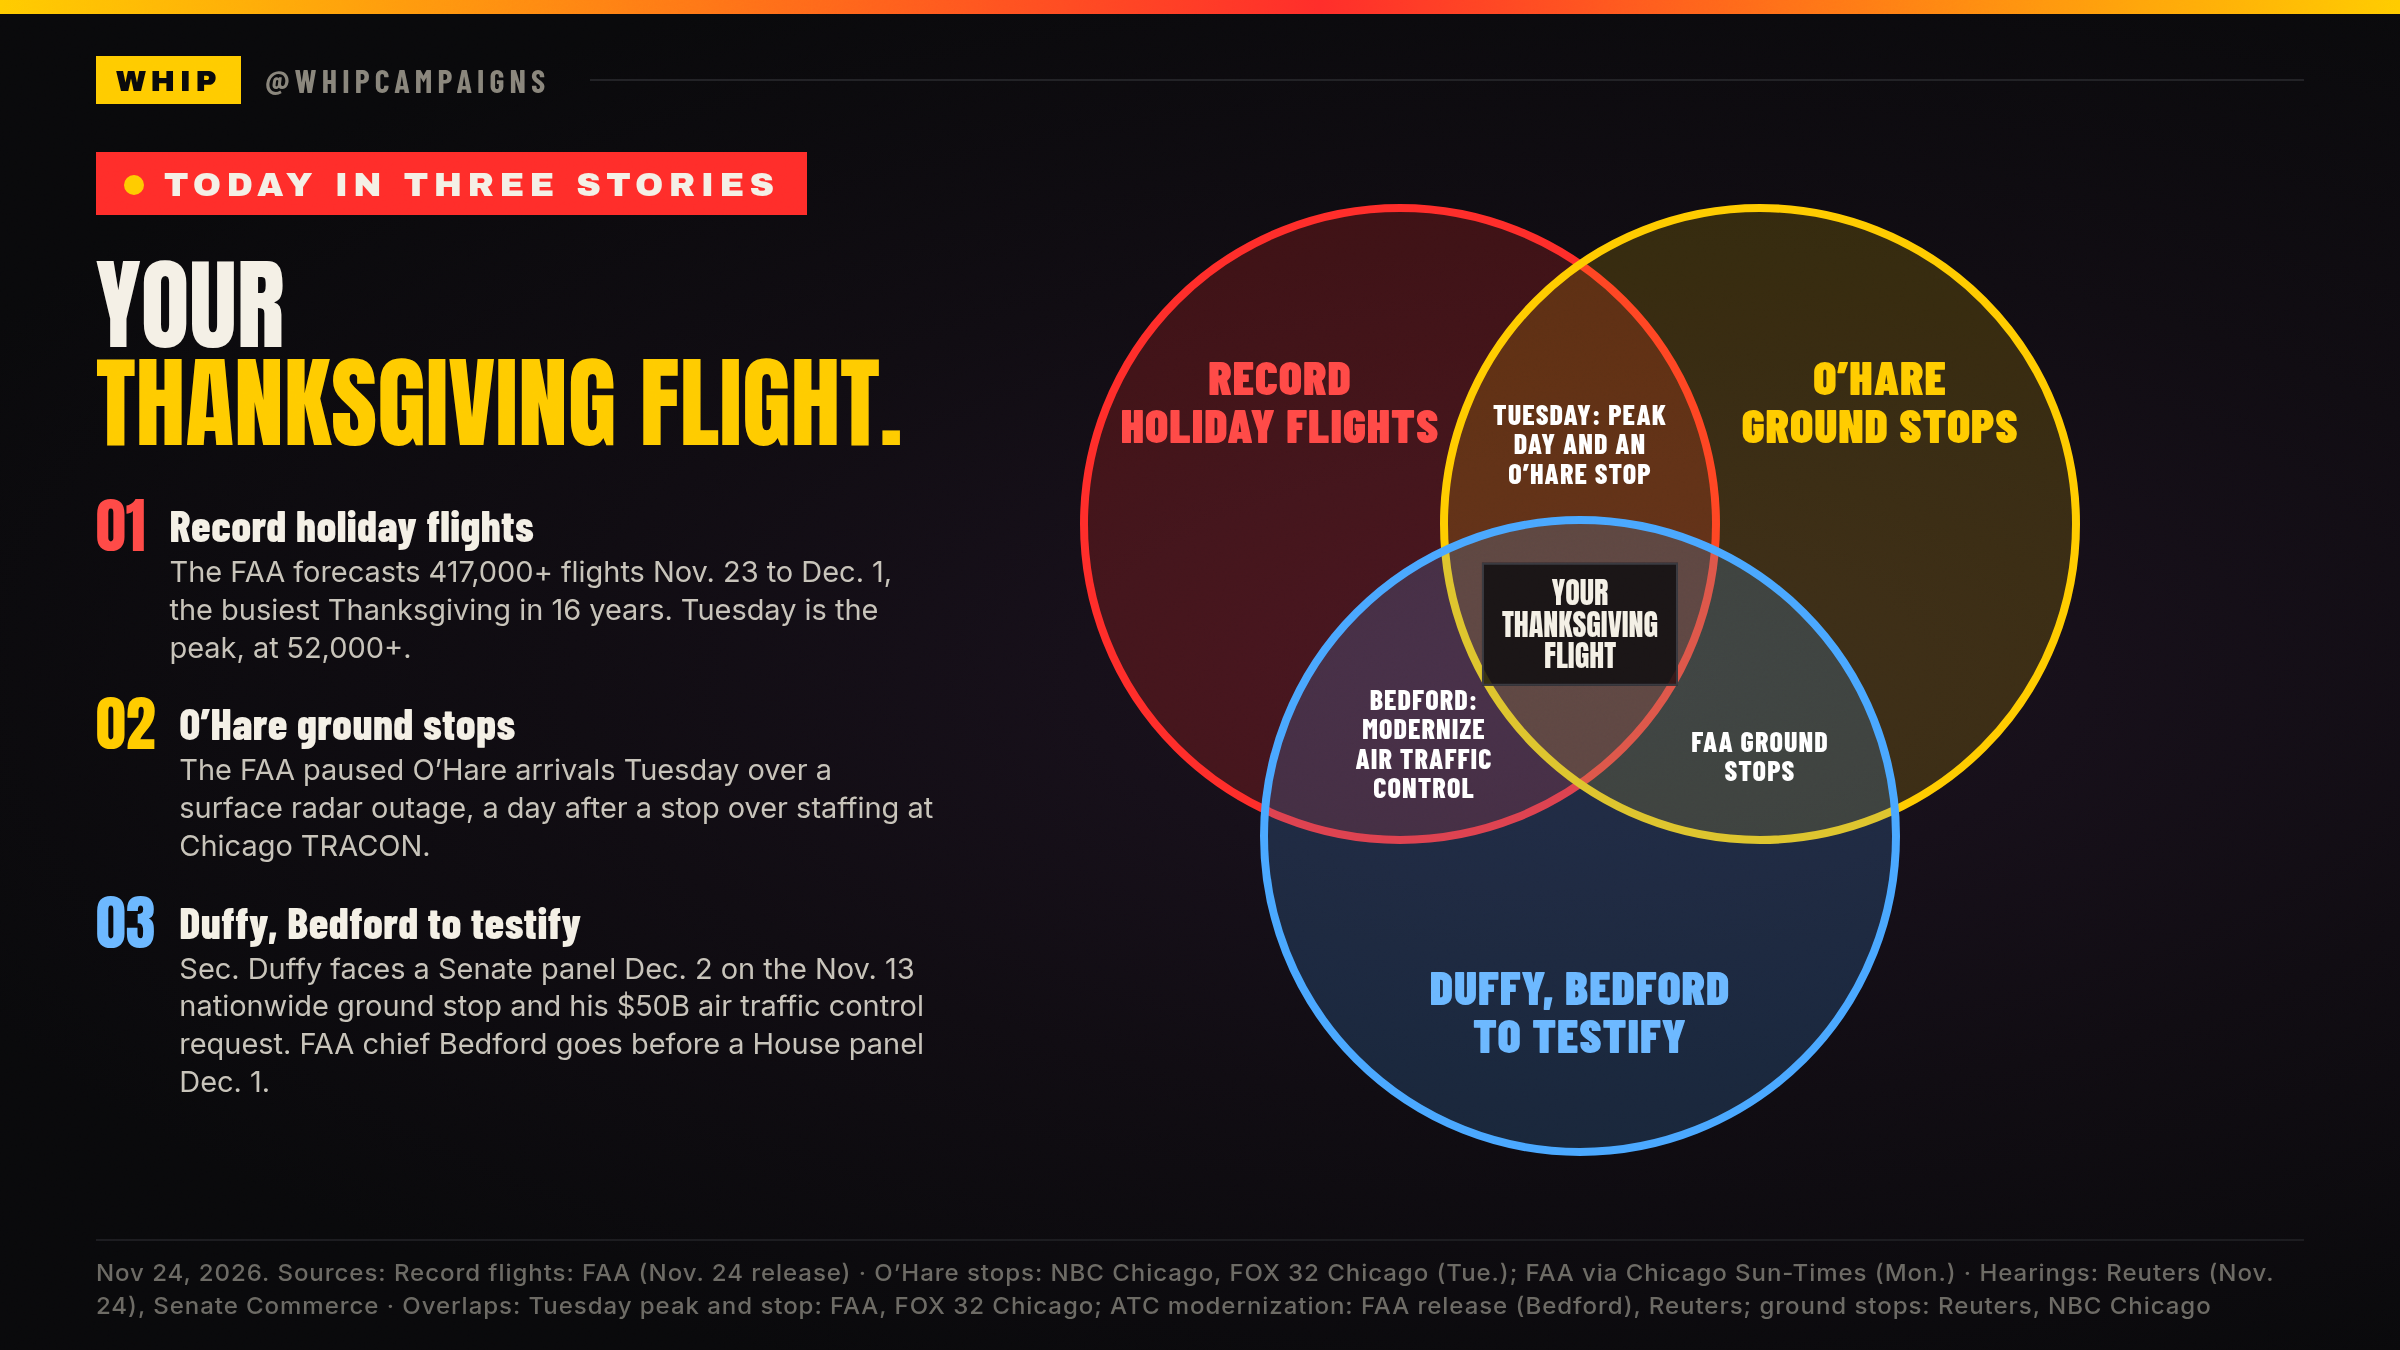
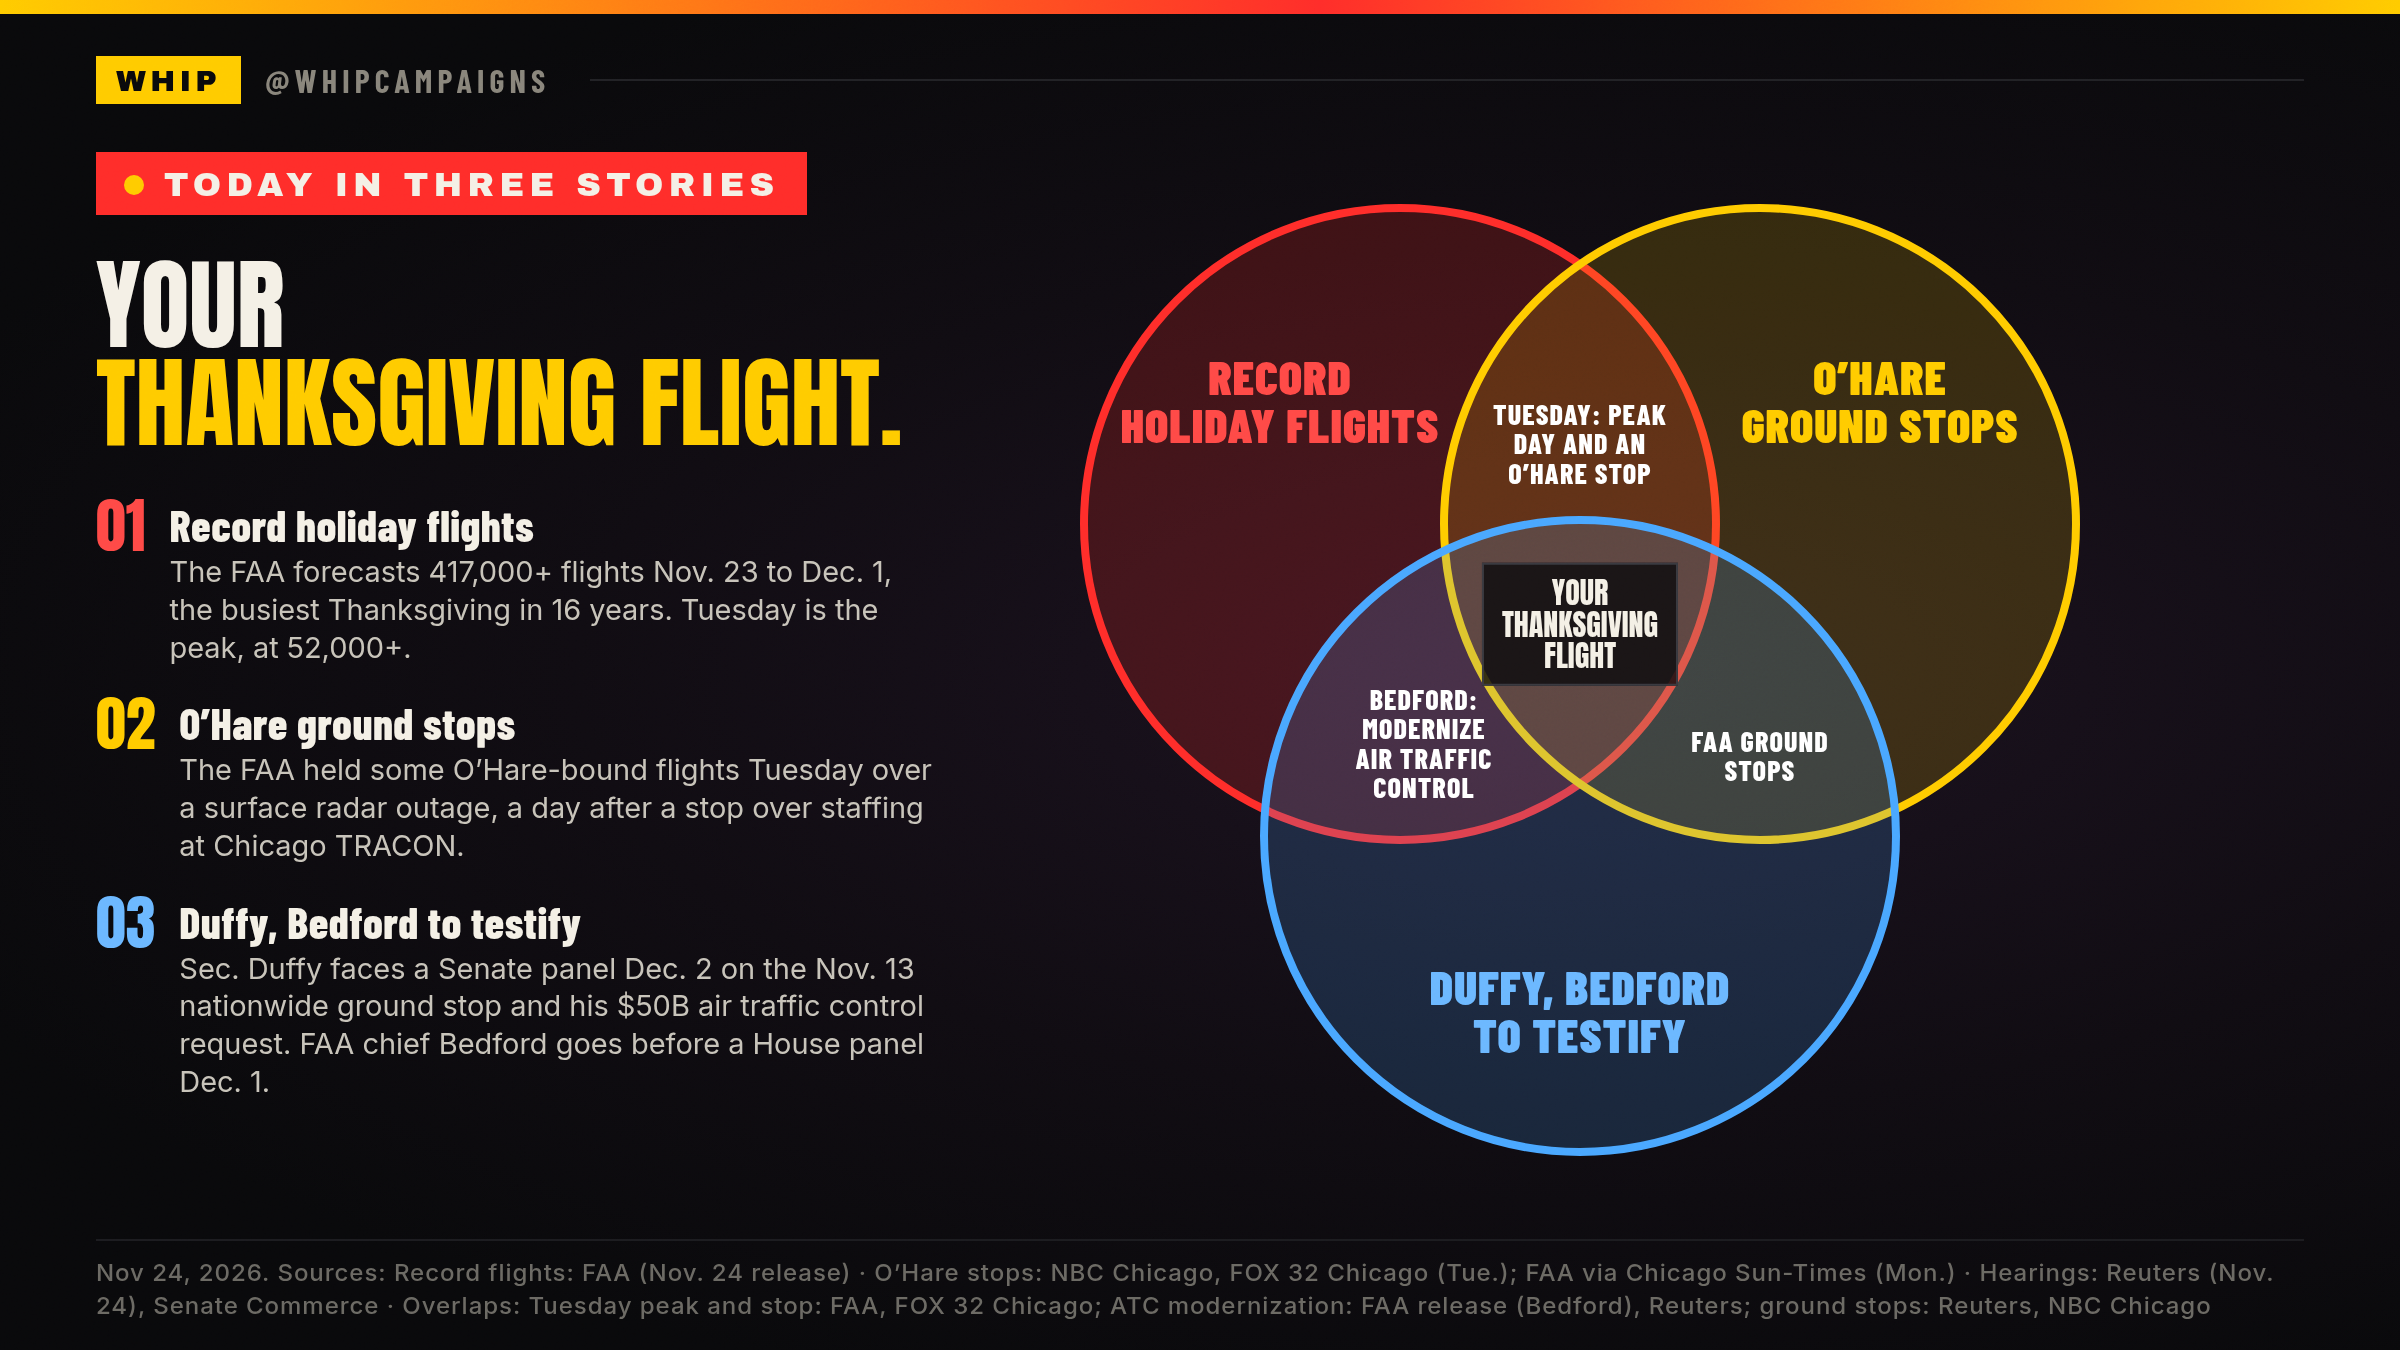
Daily venn: FAA held some O'Hare-bound flights Tuesday; update post text

Changed region(s): [[0.0625, 0.56, 0.375, 0.6533]]

diff --git a/2026-11-24-daily-venn/make_card.py b/2026-11-24-daily-venn/make_card.py
@@ -17,7 +17,7 @@ html = wrap(svg + """
 <div class="left">
   <div class="h1">YOUR<br><span class="y">THANKSGIVING FLIGHT.</span></div>
   <div class="it"><div class="n r">01</div><div><b>Record holiday flights</b><br>The FAA forecasts 417,000+ flights Nov. 23 to Dec. 1, the busiest Thanksgiving in 16 years. Tuesday is the peak, at 52,000+.</div></div>
-  <div class="it"><div class="n y">02</div><div><b>O&rsquo;Hare ground stops</b><br>The FAA paused O&rsquo;Hare arrivals Tuesday over a surface radar outage, a day after a stop over staffing at Chicago TRACON.</div></div>
+  <div class="it"><div class="n y">02</div><div><b>O&rsquo;Hare ground stops</b><br>The FAA held some O&rsquo;Hare-bound flights Tuesday over a surface radar outage, a day after a stop over staffing at Chicago TRACON.</div></div>
   <div class="it"><div class="n bl">03</div><div><b>Duffy, Bedford to testify</b><br>Sec. Duffy faces a Senate panel Dec. 2 on the Nov. 13 nationwide ground stop and his $50B air traffic control request. FAA chief Bedford goes before a House panel Dec. 1.</div></div>
 </div>
 <div class="lab la" style="left:640px;top:200px"><span class="r">RECORD<br>HOLIDAY FLIGHTS</span></div>
